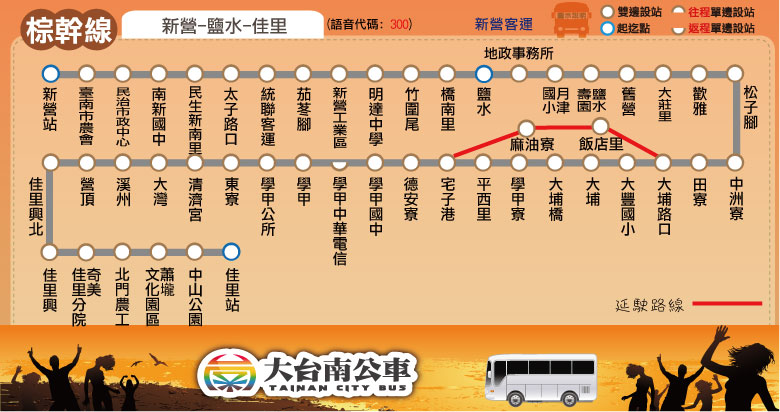
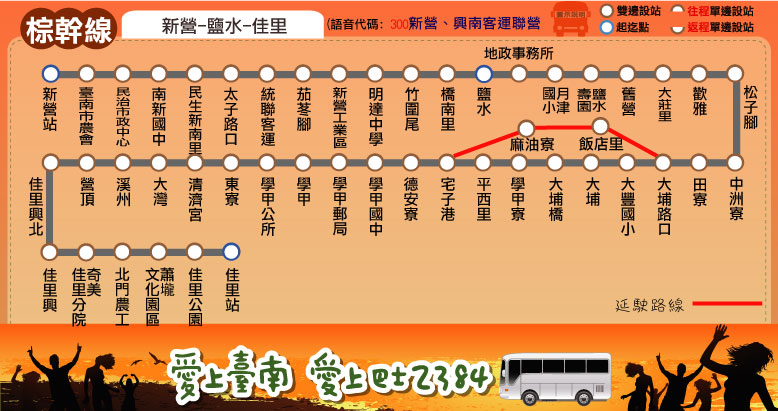
新增站位：棕幹線(增「學甲郵局」)、綠16(增「埤頭里活動中心」)

diff --git a/route/fare_and_time/green_16.js b/route/fare_and_time/green_16.js
@@ -1,7 +1,7 @@
 green_16_interval_name = ["新化","埤子頭","關廟<br />交流道","花園","關廟","歸仁","六甲","高鐵<br />臺南站"];
 green_16_interval_stop = [
 ["新化站","新化體育公園","瓜瓜園生態館","農會前","清水寺","營盤後","洋子","竹子腳","統一花園"], // 新化
-["頂山子腳","加州新城","孤山子","埤頭里","埤子頭","下山子腳"], // 埤子頭
+["頂山子腳","加州新城","孤山子","埤頭里活動中心","埤頭里","埤子頭","下山子腳"], // 埤子頭
 ["下湖","悠然山莊","關廟交流道","過坑子"], // 關廟交流道
 ["北勢里活動中心","關廟轉運站","花園","北勢里"], // 花園
 ["關廟公所","山西宮","關廟國中","大亞公司"], // 關廟

diff --git a/route/fare_and_time/brown.js b/route/fare_and_time/brown.js
@@ -10,7 +10,7 @@ brown_interval_stop = [
 ["大豐國小","大埔","大埔橋"], // 大埔
 ["學甲寮","平西里","(繞)飯店里","(繞)麻油寮"], // 學甲寮, 麻油寮
 ["宅子港","德安寮"], // 宅子港
-["學甲國中","學甲中華電信","學甲","學甲公所","東寮"], // 學甲
+["學甲國中","學甲郵局","學甲","學甲公所","東寮"], // 學甲
 ["清濟宮","大灣","溪州","營頂"], // 大灣
 ["佳里興北","佳里興","奇美佳里分院","北門農工","蕭壠文化園區"], // 佳里興
 ["中山公園","佳里站"] // 佳里
